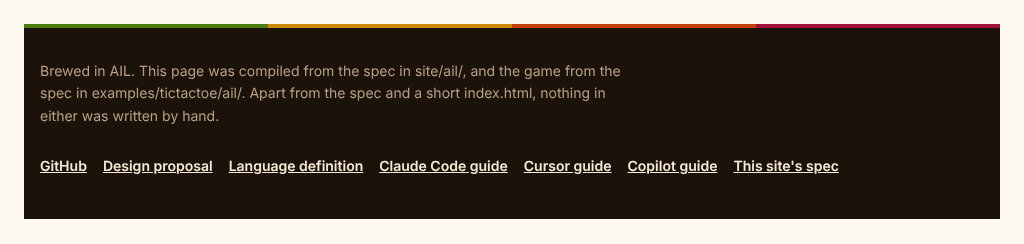
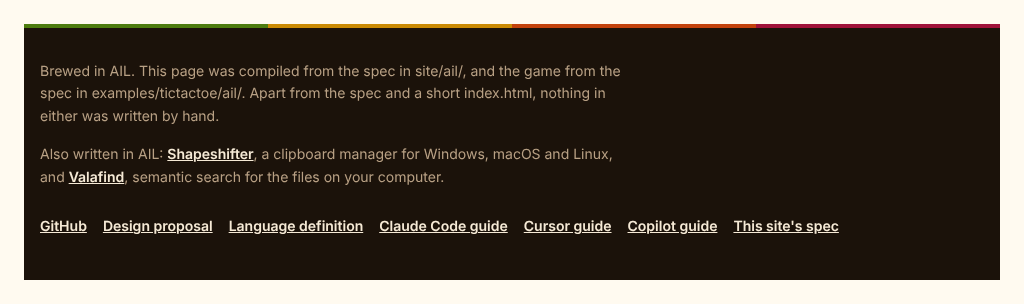
Site: name Shapeshifter and Valafind as projects written in AIL, linking to their repositories
Claude-Session: https://claude.ai/code/session_01KD7sVkcRQatrKhxfLuqSKe

diff --git a/site/src/gen/spec.ts b/site/src/gen/spec.ts
@@ -303,7 +303,7 @@ export const specProjects: SpecProject[] = [
       },
       {
         "path": "home/sections/footer.ail.md",
-        "text": "# Footer\n\n```ail\nnode Footer : view   level: experience\n  why   Close the page by restating that everything on it was built the way it describes, and point to the deeper material.   <- HomePage\n  what\n    a strip of the four level colors, one sentence on where this page and the game came from, and seven links\n    Scenario: the links\n      Given the page is open\n      Then \"GitHub\" leads to the repository, \"Design proposal\" to the design document, \"Language definition\" to the definition of AIL, \"Claude Code guide\" to the Claude Code guide, \"Cursor guide\" to the Cursor guide, \"Copilot guide\" to the GitHub Copilot guide and \"This site's spec\" to the site's spec folder\n  look\n    bar       a footer element: background color.code, color color.code.muted, font.small\n    strip     a div at the top, height 4px, display flex; four equal children with flex 1, colored color.level.product, color.level.experience, color.level.system and color.level.specialist\n    inner     a div with max-width width.content, margin 0 auto, box-sizing content-box, pad clamp(24px, 6vw, 32px) space.4 (the space.4 side padding sits outside the width, so the content box is at most width.content wide); stack(v, gap: space.4, align: start) [ text, links ]\n    text      a p: line-height 1.6, max-width width.prose, margin 0\n    links     a nav element: display flex, flex-wrap wrap, align-items center, column-gap space.4, row-gap 0 [ github, proposal, language, guide, cursor, copilot, spec ]\n    link      a link: display inline-flex, align-items center, min-height 44px, color color.code.text, weight 600, underline\n  copy\n    footer.text      \"Brewed in AIL. This page was compiled from the spec in site/ail/, and the game from the spec in examples/tictactoe/ail/. Apart from the spec and a short index.html, nothing in either was written by hand.\"\n    footer.nav       \"More about AIL\"\n    footer.github    \"GitHub\"\n    footer.proposal  \"Design proposal\"\n    footer.language  \"Language definition\"\n    footer.guide     \"Claude Code guide\"\n    footer.cursor    \"Cursor guide\"\n    footer.copilot   \"Copilot guide\"\n    footer.spec      \"This site's spec\"\n  binds\n    links     aria-label from footer.nav\n    github    a link to \"https://github.com/ffMathy/agentic-intermediate-language\"\n    proposal  a link to \"https://github.com/ffMathy/agentic-intermediate-language/blob/main/docs/proposal.md\"\n    language  a link to \"https://github.com/ffMathy/agentic-intermediate-language/blob/main/docs/language.md\"\n    guide     a link to \"https://github.com/ffMathy/agentic-intermediate-language/blob/main/docs/claude-code.md\"\n    cursor    a link to \"https://github.com/ffMathy/agentic-intermediate-language/blob/main/docs/cursor.md\"\n    copilot   a link to \"https://github.com/ffMathy/agentic-intermediate-language/blob/main/docs/copilot.md\"\n    spec      a link to \"https://github.com/ffMathy/agentic-intermediate-language/tree/main/site\"\n  uses  Stack\n```\n"
+        "text": "# Footer\n\n```ail\nnode Footer : view   level: experience\n  why   Close the page by restating that everything on it was built the way it describes, and point to the deeper material.   <- HomePage\n  what\n    a strip of the four level colors, one sentence on where this page and the game came from, one sentence naming the other projects written in AIL, each name a link to its repository, and seven links\n    Scenario: the links\n      Given the page is open\n      Then \"Shapeshifter\" leads to the Shapeshifter repository and \"Valafind\" to the Valafind repository\n      And \"GitHub\" leads to the repository, \"Design proposal\" to the design document, \"Language definition\" to the definition of AIL, \"Claude Code guide\" to the Claude Code guide, \"Cursor guide\" to the Cursor guide, \"Copilot guide\" to the GitHub Copilot guide and \"This site's spec\" to the site's spec folder\n  look\n    bar       a footer element: background color.code, color color.code.muted, font.small\n    strip     a div at the top, height 4px, display flex; four equal children with flex 1, colored color.level.product, color.level.experience, color.level.system and color.level.specialist\n    inner     a div with max-width width.content, margin 0 auto, box-sizing content-box, pad clamp(24px, 6vw, 32px) space.4 (the space.4 side padding sits outside the width, so the content box is at most width.content wide); stack(v, gap: space.4, align: start) [ text, built, links ]\n    text      a p: line-height 1.6, max-width width.prose, margin 0\n    built     a p: line-height 1.6, max-width width.prose, margin 0; footer.built.lead, then the link shapeshifter, footer.built.and, the link valafind and footer.built.end, as one sentence\n    inline    a link inside built: color color.code.text, weight 600, underline\n    links     a nav element: display flex, flex-wrap wrap, align-items center, column-gap space.4, row-gap 0 [ github, proposal, language, guide, cursor, copilot, spec ]\n    link      a link: display inline-flex, align-items center, min-height 44px, color color.code.text, weight 600, underline\n  copy\n    footer.text      \"Brewed in AIL. This page was compiled from the spec in site/ail/, and the game from the spec in examples/tictactoe/ail/. Apart from the spec and a short index.html, nothing in either was written by hand.\"\n    footer.built.lead  \"Also written in AIL: \"\n    footer.shapeshifter  \"Shapeshifter\"\n    footer.built.and   \", a clipboard manager for Windows, macOS and Linux, and \"\n    footer.valafind    \"Valafind\"\n    footer.built.end   \", semantic search for the files on your computer.\"\n    footer.nav       \"More about AIL\"\n    footer.github    \"GitHub\"\n    footer.proposal  \"Design proposal\"\n    footer.language  \"Language definition\"\n    footer.guide     \"Claude Code guide\"\n    footer.cursor    \"Cursor guide\"\n    footer.copilot   \"Copilot guide\"\n    footer.spec      \"This site's spec\"\n  binds\n    links     aria-label from footer.nav\n    shapeshifter  a link to \"https://github.com/ffMathy/Shapeshifter\", with text footer.shapeshifter\n    valafind      a link to \"https://github.com/ffMathy/valafind\", with text footer.valafind\n    github    a link to \"https://github.com/ffMathy/agentic-intermediate-language\"\n    proposal  a link to \"https://github.com/ffMathy/agentic-intermediate-language/blob/main/docs/proposal.md\"\n    language  a link to \"https://github.com/ffMathy/agentic-intermediate-language/blob/main/docs/language.md\"\n    guide     a link to \"https://github.com/ffMathy/agentic-intermediate-language/blob/main/docs/claude-code.md\"\n    cursor    a link to \"https://github.com/ffMathy/agentic-intermediate-language/blob/main/docs/cursor.md\"\n    copilot   a link to \"https://github.com/ffMathy/agentic-intermediate-language/blob/main/docs/copilot.md\"\n    spec      a link to \"https://github.com/ffMathy/agentic-intermediate-language/tree/main/site\"\n  uses  Stack\n```\n"
       },
       {
         "path": "home/sections/gap-strip.ail.md",

diff --git a/site/src/gen/home/sections/footer.tsx b/site/src/gen/home/sections/footer.tsx
@@ -1,6 +1,19 @@
+import type { CSSProperties } from "react";
 import { Stack } from "../../parts/stack";
 
-const linkStyle = {
+const textStyle: CSSProperties = {
+  lineHeight: 1.6,
+  maxWidth: "var(--width-prose)",
+  margin: 0,
+};
+
+const inlineStyle: CSSProperties = {
+  color: "var(--color-code-text)",
+  fontWeight: 600,
+  textDecoration: "underline",
+};
+
+const linkStyle: CSSProperties = {
   display: "inline-flex",
   alignItems: "center",
   minHeight: "44px",
@@ -9,7 +22,14 @@ const linkStyle = {
   textDecoration: "underline",
 };
 
-/** a strip of the four level colors, one sentence on where this page and the game came from, and seven links */
+const stripColors = [
+  "var(--color-level-product)",
+  "var(--color-level-experience)",
+  "var(--color-level-system)",
+  "var(--color-level-specialist)",
+];
+
+/** a strip of the four level colors, one sentence on where this page and the game came from, one sentence naming the other projects written in AIL, each name a link to its repository, and seven links */
 export function Footer() {
   return (
     <footer
@@ -20,10 +40,9 @@ export function Footer() {
       }}
     >
       <div style={{ height: "4px", display: "flex" }}>
-        <div style={{ flex: 1, background: "var(--color-level-product)" }} />
-        <div style={{ flex: 1, background: "var(--color-level-experience)" }} />
-        <div style={{ flex: 1, background: "var(--color-level-system)" }} />
-        <div style={{ flex: 1, background: "var(--color-level-specialist)" }} />
+        {stripColors.map((color) => (
+          <div key={color} style={{ flex: 1, background: color }} />
+        ))}
       </div>
       <Stack
         dir="v"
@@ -36,14 +55,19 @@ export function Footer() {
           padding: "clamp(24px, 6vw, 32px) var(--space-4)",
         }}
       >
-        <p
-          style={{
-            lineHeight: 1.6,
-            maxWidth: "var(--width-prose)",
-            margin: 0,
-          }}
-        >
+        <p style={textStyle}>
           Brewed in AIL. This page was compiled from the spec in site/ail/, and the game from the spec in examples/tictactoe/ail/. Apart from the spec and a short index.html, nothing in either was written by hand.
+        </p>
+        <p style={textStyle}>
+          {"Also written in AIL: "}
+          <a href="https://github.com/ffMathy/Shapeshifter" style={inlineStyle}>
+            Shapeshifter
+          </a>
+          {", a clipboard manager for Windows, macOS and Linux, and "}
+          <a href="https://github.com/ffMathy/valafind" style={inlineStyle}>
+            Valafind
+          </a>
+          {", semantic search for the files on your computer."}
         </p>
         <nav
           aria-label="More about AIL"

diff --git a/site/checks/home/sections/footer.test.tsx b/site/checks/home/sections/footer.test.tsx
@@ -1,4 +1,4 @@
-// ail-derived-from: Footer@3ac00b76433cda38
+// ail-derived-from: Footer@afd20054e2240e56
 import { afterEach, expect, test } from "bun:test";
 import { cleanup, render, screen } from "@testing-library/react";
 import { Footer } from "../../../src/gen/home/sections/footer";
@@ -9,15 +9,37 @@ afterEach(() => {
 
 test("the links", () => {
   render(<Footer />);
+
   const expected: Array<[string, string]> = [
+    ["Shapeshifter", "https://github.com/ffMathy/Shapeshifter"],
+    ["Valafind", "https://github.com/ffMathy/valafind"],
     ["GitHub", "https://github.com/ffMathy/agentic-intermediate-language"],
-    ["Design proposal", "https://github.com/ffMathy/agentic-intermediate-language/blob/main/docs/proposal.md"],
-    ["Language definition", "https://github.com/ffMathy/agentic-intermediate-language/blob/main/docs/language.md"],
-    ["Claude Code guide", "https://github.com/ffMathy/agentic-intermediate-language/blob/main/docs/claude-code.md"],
-    ["Cursor guide", "https://github.com/ffMathy/agentic-intermediate-language/blob/main/docs/cursor.md"],
-    ["Copilot guide", "https://github.com/ffMathy/agentic-intermediate-language/blob/main/docs/copilot.md"],
-    ["This site's spec", "https://github.com/ffMathy/agentic-intermediate-language/tree/main/site"],
+    [
+      "Design proposal",
+      "https://github.com/ffMathy/agentic-intermediate-language/blob/main/docs/proposal.md",
+    ],
+    [
+      "Language definition",
+      "https://github.com/ffMathy/agentic-intermediate-language/blob/main/docs/language.md",
+    ],
+    [
+      "Claude Code guide",
+      "https://github.com/ffMathy/agentic-intermediate-language/blob/main/docs/claude-code.md",
+    ],
+    [
+      "Cursor guide",
+      "https://github.com/ffMathy/agentic-intermediate-language/blob/main/docs/cursor.md",
+    ],
+    [
+      "Copilot guide",
+      "https://github.com/ffMathy/agentic-intermediate-language/blob/main/docs/copilot.md",
+    ],
+    [
+      "This site's spec",
+      "https://github.com/ffMathy/agentic-intermediate-language/tree/main/site",
+    ],
   ];
+
   for (const [name, href] of expected) {
     const link = screen.getByRole("link", { name });
     expect(link.getAttribute("href")).toBe(href);

diff --git a/site/checks/home/home-page.test.tsx b/site/checks/home/home-page.test.tsx
@@ -1,4 +1,4 @@
-// ail-derived-from: HomePage@3a8190cd8d072ebe
+// ail-derived-from: HomePage@369ef2b624ad5e4e
 import { afterEach, expect, test } from "bun:test";
 import { cleanup, render, screen } from "@testing-library/react";
 import { HomePage } from "../../src/gen/home/home-page";
@@ -7,16 +7,20 @@ afterEach(() => {
   cleanup();
 });
 
+function normalize(text: string | null): string {
+  return (text ?? "").replace(/\s+/g, " ").trim();
+}
+
 test("one story, in order", () => {
   render(<HomePage />);
   const h1s = screen.getAllByRole("heading", { level: 1 });
   expect(h1s.length).toBe(1);
-  expect((h1s[0].textContent ?? "").replace(/\s+/g, " ").trim()).toBe(
+  expect(normalize(h1s[0].textContent)).toBe(
     "Write one sentence. Watch it become working software.",
   );
   const h2s = screen
     .getAllByRole("heading", { level: 2 })
-    .map((h) => (h.textContent ?? "").replace(/\s+/g, " ").trim());
+    .map((heading) => normalize(heading.textContent));
   expect(h2s).toEqual([
     "Between a prompt and the code, there is nothing to review.",
     "A tree of tasks, the same all the way down",
@@ -31,8 +35,17 @@ test("one story, in order", () => {
 });
 
 test("every top bar link has a place to land", () => {
-  render(<HomePage />);
-  for (const id of ["tree", "journey", "watch", "readers", "loop", "adopt", "specs", "start"]) {
-    expect(document.getElementById(id)).not.toBeNull();
+  const { container } = render(<HomePage />);
+  for (const id of [
+    "tree",
+    "journey",
+    "watch",
+    "readers",
+    "loop",
+    "adopt",
+    "specs",
+    "start",
+  ]) {
+    expect(container.querySelector(`[id="${id}"]`)).not.toBeNull();
   }
 });

diff --git a/site/src/gen/home/home-page.tsx b/site/src/gen/home/home-page.tsx
@@ -11,7 +11,7 @@ import { SpecBrowser } from "./sections/spec-browser";
 import { GetStarted } from "./sections/get-started";
 import { Footer } from "./sections/footer";
 
-/** the parts appear in this order: TopBar, Hero, GapStrip, TreeSection, Journey, WatchSection, Readers, BuildLoop, AdoptSection, SpecBrowser, GetStarted, Footer */
+/** "the parts appear in this order: TopBar, Hero, GapStrip, TreeSection, Journey, WatchSection, Readers, BuildLoop, AdoptSection, SpecBrowser, GetStarted, Footer" */
 export function HomePage() {
   return (
     <div

diff --git a/site/ail/home/sections/footer.ail.md b/site/ail/home/sections/footer.ail.md
@@ -4,19 +4,27 @@
 node Footer : view   level: experience
   why   Close the page by restating that everything on it was built the way it describes, and point to the deeper material.   <- HomePage
   what
-    a strip of the four level colors, one sentence on where this page and the game came from, and seven links
+    a strip of the four level colors, one sentence on where this page and the game came from, one sentence naming the other projects written in AIL, each name a link to its repository, and seven links
     Scenario: the links
       Given the page is open
-      Then "GitHub" leads to the repository, "Design proposal" to the design document, "Language definition" to the definition of AIL, "Claude Code guide" to the Claude Code guide, "Cursor guide" to the Cursor guide, "Copilot guide" to the GitHub Copilot guide and "This site's spec" to the site's spec folder
+      Then "Shapeshifter" leads to the Shapeshifter repository and "Valafind" to the Valafind repository
+      And "GitHub" leads to the repository, "Design proposal" to the design document, "Language definition" to the definition of AIL, "Claude Code guide" to the Claude Code guide, "Cursor guide" to the Cursor guide, "Copilot guide" to the GitHub Copilot guide and "This site's spec" to the site's spec folder
   look
     bar       a footer element: background color.code, color color.code.muted, font.small
     strip     a div at the top, height 4px, display flex; four equal children with flex 1, colored color.level.product, color.level.experience, color.level.system and color.level.specialist
-    inner     a div with max-width width.content, margin 0 auto, box-sizing content-box, pad clamp(24px, 6vw, 32px) space.4 (the space.4 side padding sits outside the width, so the content box is at most width.content wide); stack(v, gap: space.4, align: start) [ text, links ]
+    inner     a div with max-width width.content, margin 0 auto, box-sizing content-box, pad clamp(24px, 6vw, 32px) space.4 (the space.4 side padding sits outside the width, so the content box is at most width.content wide); stack(v, gap: space.4, align: start) [ text, built, links ]
     text      a p: line-height 1.6, max-width width.prose, margin 0
+    built     a p: line-height 1.6, max-width width.prose, margin 0; footer.built.lead, then the link shapeshifter, footer.built.and, the link valafind and footer.built.end, as one sentence
+    inline    a link inside built: color color.code.text, weight 600, underline
     links     a nav element: display flex, flex-wrap wrap, align-items center, column-gap space.4, row-gap 0 [ github, proposal, language, guide, cursor, copilot, spec ]
     link      a link: display inline-flex, align-items center, min-height 44px, color color.code.text, weight 600, underline
   copy
     footer.text      "Brewed in AIL. This page was compiled from the spec in site/ail/, and the game from the spec in examples/tictactoe/ail/. Apart from the spec and a short index.html, nothing in either was written by hand."
+    footer.built.lead  "Also written in AIL: "
+    footer.shapeshifter  "Shapeshifter"
+    footer.built.and   ", a clipboard manager for Windows, macOS and Linux, and "
+    footer.valafind    "Valafind"
+    footer.built.end   ", semantic search for the files on your computer."
     footer.nav       "More about AIL"
     footer.github    "GitHub"
     footer.proposal  "Design proposal"
@@ -27,6 +35,8 @@ node Footer : view   level: experience
     footer.spec      "This site's spec"
   binds
     links     aria-label from footer.nav
+    shapeshifter  a link to "https://github.com/ffMathy/Shapeshifter", with text footer.shapeshifter
+    valafind      a link to "https://github.com/ffMathy/valafind", with text footer.valafind
     github    a link to "https://github.com/ffMathy/agentic-intermediate-language"
     proposal  a link to "https://github.com/ffMathy/agentic-intermediate-language/blob/main/docs/proposal.md"
     language  a link to "https://github.com/ffMathy/agentic-intermediate-language/blob/main/docs/language.md"
